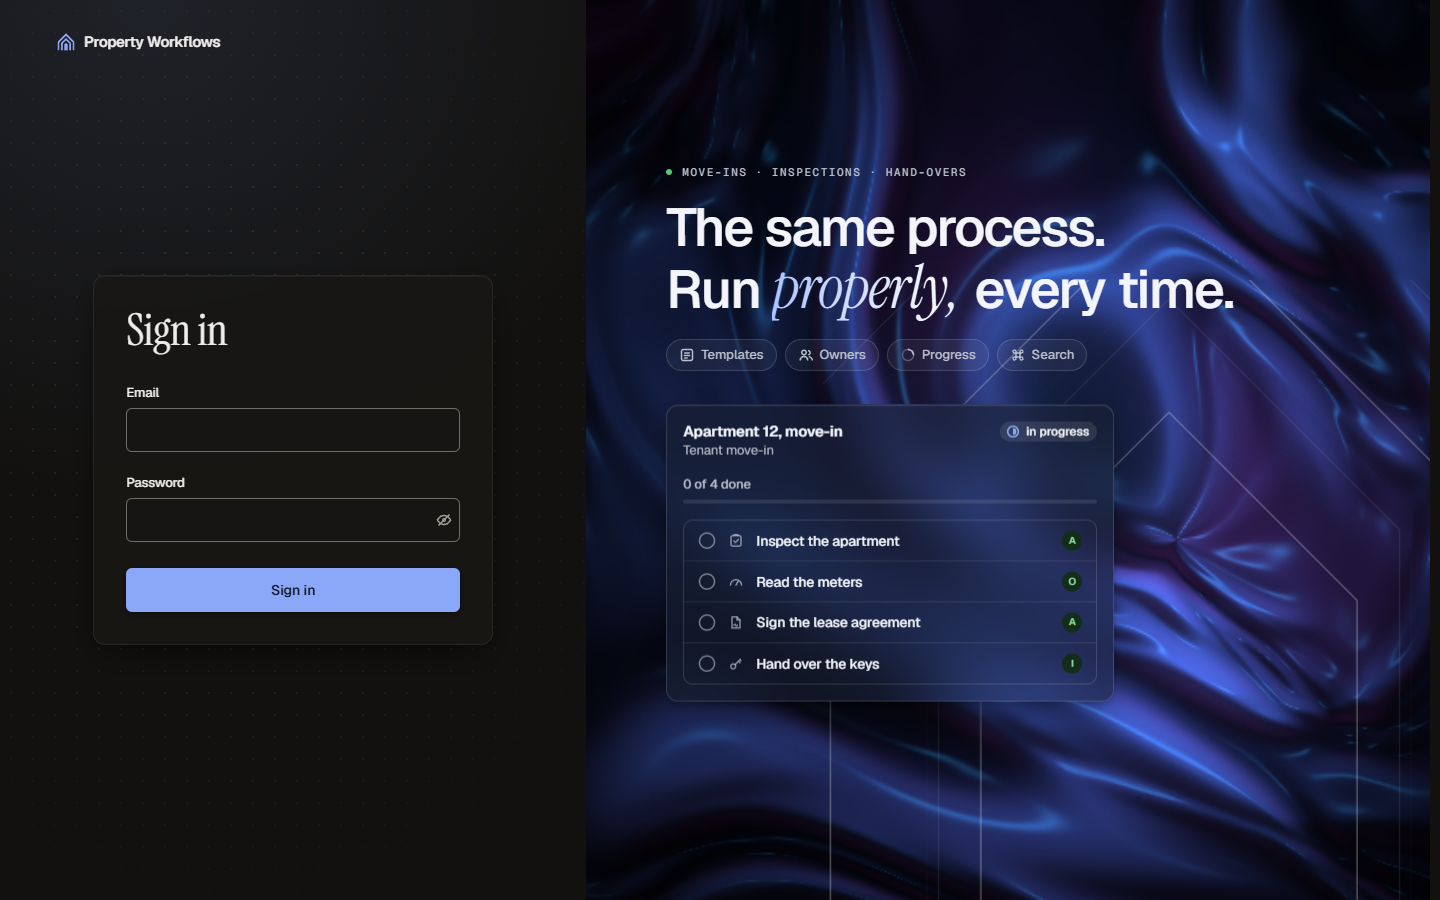
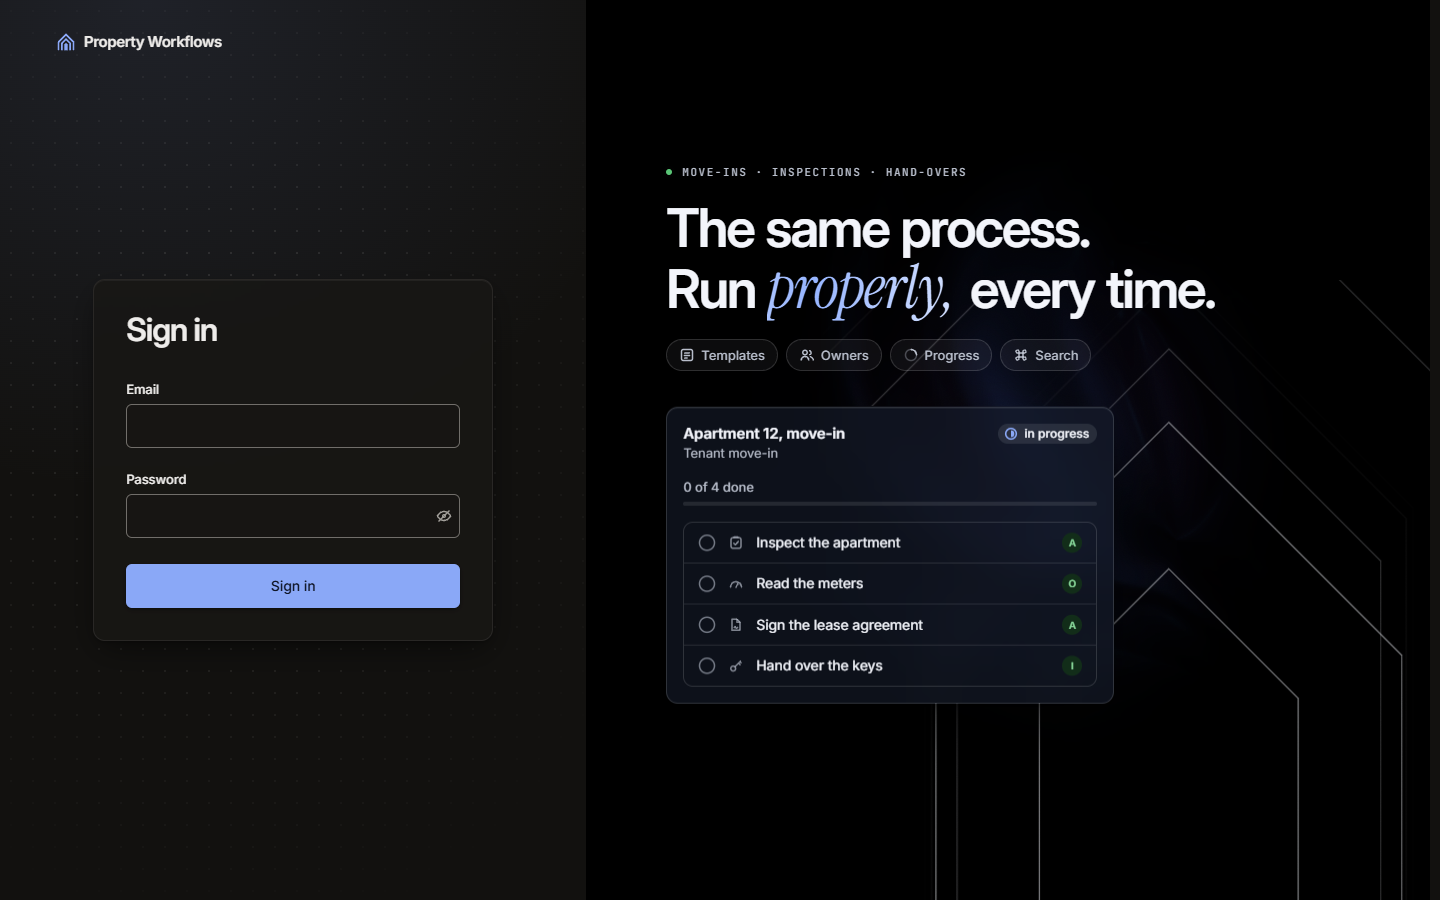
Реалізація: шрифти Inter + JetBrains Mono замість Geist, знімки «до» сторінок
- Inter (змінний, optical size) для тексту й заголовків, JetBrains Mono для моно, Instrument Serif Italic лише для акценту hero
- заголовок «Sign in» — Inter 32/36, 600; ваги тексту 400/420, підписів 500
- DESIGN.md і ADR 0004 оновлено; знімки «до» /, /runs, /templates, сторінки запуску і форми запуску у docs/img

diff --git a/src/app/globals.css b/src/app/globals.css
@@ -154,7 +154,7 @@
 
 
   /* Компенсація ваги тексту: на темному тлі трохи важчий */
-  --weight-body: 430;
+  --weight-body: 400;
 }
 
 /* --------------------------------------------------------------------------
@@ -230,7 +230,7 @@
     --chart-5: oklch(0.62 0.03 80);
 
 
-    --weight-body: 470;
+    --weight-body: 420;
   }
 }
 
@@ -366,8 +366,8 @@
    6. Tailwind: імена токенів → утиліти
    -------------------------------------------------------------------------- */
 @theme inline {
-  --font-sans: var(--font-geist-sans), ui-sans-serif, system-ui, -apple-system, "Segoe UI", sans-serif;
-  --font-mono: var(--font-geist-mono), ui-monospace, "SF Mono", "Cascadia Mono", Consolas, monospace;
+  --font-sans: var(--font-inter), ui-sans-serif, system-ui, -apple-system, "Segoe UI", sans-serif;
+  --font-mono: var(--font-jetbrains-mono), ui-monospace, "SF Mono", "Cascadia Mono", Consolas, monospace;
   --font-display: var(--font-instrument-serif), ui-serif, "Iowan Old Style", Georgia, serif;
 
   --color-accent-float: var(--accent-float);
@@ -482,8 +482,8 @@
   --text-display--font-weight: 600;
   --text-hero: clamp(2.25rem, 3.7vw, 3.75rem);
   --text-hero--line-height: 1.04;
-  --text-hero--letter-spacing: -0.032em;
-  --text-hero--font-weight: 540;
+  --text-hero--letter-spacing: -0.038em;
+  --text-hero--font-weight: 600;
   --text-eyebrow: 0.6875rem;
   --text-eyebrow--line-height: 1rem;
   --text-eyebrow--letter-spacing: 0.14em;
@@ -501,7 +501,7 @@
   --text-body--letter-spacing: -0.006em;
   --text-label: 0.8125rem;
   --text-label--line-height: 1.125rem;
-  --text-label--font-weight: 520;
+  --text-label--font-weight: 500;
   --text-meta: 0.75rem;
   --text-meta--line-height: 1rem;
   --text-meta--letter-spacing: 0.004em;

diff --git a/src/app/layout.tsx b/src/app/layout.tsx
@@ -1,18 +1,20 @@
 import type { Metadata } from "next";
-import { Geist, Geist_Mono, Instrument_Serif } from "next/font/google";
+import { Inter, Instrument_Serif, JetBrains_Mono } from "next/font/google";
 import "./globals.css";
 
-const geistSans = Geist({
-  variable: "--font-geist-sans",
+// Inter з віссю optical size: на великих розмірах дає «display»-форми (щільніші), на 14 px — текстові. Один шрифт на весь інтерфейс.
+const inter = Inter({
+  variable: "--font-inter",
+  subsets: ["latin"],
+  axes: ["opsz"],
+});
+
+const jetbrainsMono = JetBrains_Mono({
+  variable: "--font-jetbrains-mono",
   subsets: ["latin"],
 });
 
-const geistMono = Geist_Mono({
-  variable: "--font-geist-mono",
-  subsets: ["latin"],
-});
-
-// Виразний акцент (лише hero входу): курсивний серіф поруч із Geist. Латиниця; в інтерфейсі лише англійські слова.
+// Виразний акцент (лише hero входу): курсивний серіф поруч з Inter. Латиниця; в інтерфейсі лише англійські слова.
 const instrumentSerif = Instrument_Serif({
   variable: "--font-instrument-serif",
   subsets: ["latin"],
@@ -29,7 +31,7 @@ export default function RootLayout({ children }: LayoutProps<"/">) {
   return (
     <html
       lang="en"
-      className={`${geistSans.variable} ${geistMono.variable} ${instrumentSerif.variable} h-full antialiased`}
+      className={`${inter.variable} ${jetbrainsMono.variable} ${instrumentSerif.variable} h-full antialiased`}
     >
       <body className="min-h-full flex flex-col">{children}</body>
     </html>

diff --git a/src/app/login/page.tsx b/src/app/login/page.tsx
@@ -41,7 +41,7 @@ export default async function LoginPage({ searchParams }: PageProps<"/login">) {
             style={{ "--reveal-delay": "120ms" } as CSSProperties}
             className="animate-ui-reveal flex flex-col gap-8 rounded-xl border border-border bg-card/85 p-8 shadow-md backdrop-blur-sm"
           >
-            <h1 className="font-display text-[2.75rem] font-normal leading-none tracking-[-0.01em]">Sign in</h1>
+            <h1 className="text-[2rem] font-semibold leading-9 tracking-[-0.03em]">Sign in</h1>
             <LoginForm action={login} serverError={message} />
           </div>
         </div>

diff --git a/docs/decisions/0004-design-system-own-components-on-tokens.md b/docs/decisions/0004-design-system-own-components-on-tokens.md
@@ -12,11 +12,13 @@
 
 ## Рішення
 
+- **Шрифти:** Inter (змінний, вісь optical size) для тексту й заголовків, JetBrains Mono для моно; через `next/font/google`, без npm-пакетів. Geist відхилено після перегляду 8 стеків на реальних екранах: Inter читається чіткіше в щільних таблицях (tabular-цифри) і на Windows.
+
 - **Токени** в `src/app/globals.css`: OKLCH, світла тема в `:root`, темна в `@media (prefers-color-scheme: dark)`, `@theme inline` з `--color-*`. Імена shadcn/ui плюс статуси домену (`status-*`: тло, текст, іконка), `ai*`, `variable*` для майбутнього конструктора, `stage*` для сцени входу, стани (`state-hover/pressed/selected`) як альфа-шар.
 - **Компоненти власні** в `src/components/ui/` на цих токенах, без shadcn CLI і без нових залежностей: Button, Input/Textarea/PasswordInput, Select (власний listbox), Combobox, MultiSelect, DatePicker, DateRangePicker, TimeField (київський час), NumberField, CurrencyField, Checkbox, RadioGroup, Switch, Segmented, Slider, FileDrop, Popover, Label, Field, Card, Table, Badge, StatusBadge, Alert, Progress, Avatar, EmptyState, Dialog/ConfirmDialog, TaskCheck/CompletionGlow (оживлення завершення), Skeleton, AppShell із ⌘K, Logo. Діалоги — нативний `<dialog>`: фокус-пастка, Esc і inert-фон дає браузер.
 - **Підтвердження незворотної дії** (AC-TASK-04, 16) — `ConfirmDialog`; `withConfirmation` з `src/lib/runs/confirmation.ts` не змінено, тож тести правила лишились дослівними.
 - **Правило в CI:** `scripts/check-design-tokens.mjs`, `scripts/check-contrast.mjs` і `scripts/check-ui-copy.mjs` (жодних пояснювальних підзаголовків і копірайтів в інтерфейсі; хук Claude Code в `.claude/settings.json` запускає її після кожної правки `src/**/*.tsx`) у `.github/workflows/architecture.yml`. Контраст пар токенів у `DESIGN.md` генерує скрипт, а не рука.
-- **Вхід** — єдиний екран із рухом і єдине місце з другим шрифтом (Instrument Serif через `next/font/google`, без npm-пакета; акцентне слово hero й заголовок «Sign in»): WebGL-шейдер без залежностей (DPR ≤ 1.5 ×0.55, ≤ 30 кадрів/с, пауза поза екраном і за кнопкою «Pause animation», запасний CSS-фон, статичний кадр за `prefers-reduced-motion`), кольори шейдера читаються з токенів `--stage*`.
+- **Вхід** — єдиний екран із рухом і єдине місце з другим шрифтом (Instrument Serif Italic через `next/font/google`, без npm-пакета; лише акцентне слово hero): WebGL-шейдер без залежностей (DPR ≤ 1.5 ×0.55, ≤ 30 кадрів/с, пауза поза екраном і за кнопкою «Pause animation», запасний CSS-фон, статичний кадр за `prefers-reduced-motion`), кольори шейдера читаються з токенів `--stage*`.
 
 ## Розглянуті варіанти
 

diff --git a/DESIGN.md b/DESIGN.md
@@ -85,19 +85,19 @@
 
 ## 3. Типографіка
 
-Шрифт Geist (`--font-sans`) і Geist Mono (`--font-mono`) через `next/font`; єдиний виразний акцент — Instrument Serif (`--font-display`; лише екран входу: акцентне слово hero й заголовок «Sign in», латиниця; завантажується з Google Fonts під час збірки, npm-пакета немає); мова інтерфейсу — англійська, терміни як у глосарії PM (Templates, Runs, run manager, «N of M done»). Вага тексту 430 (Geist ліпиться тонким на Windows), у темній темі 470 (компенсація світіння); підписи й кнопки 520. Числа — завжди `tabular`.
+Шрифт Inter (`--font-sans`, змінний, з віссю optical size: великі заголовки автоматично отримують щільніші «display»-форми) і JetBrains Mono (`--font-mono`) через `next/font`; єдиний виразний акцент — Instrument Serif Italic (`--font-display`; лише акцентне слово hero входу, латиниця; завантажується з Google Fonts під час збірки, npm-пакета немає); мова інтерфейсу — англійська, терміни як у глосарії PM (Templates, Runs, run manager, «N of M done»). Вага тексту 400, у темній темі 420 (компенсація світіння); підписи й кнопки 500, заголовки 600. Числа — завжди `tabular`.
 
 | Роль | Клас | Розмір / висота рядка | Де |
 |---|---|---|---|
 | Великі числа | `text-display` | 28 / 32, 600 | лічильники на головній |
+| Заголовок входу | `text-[2rem] font-semibold tracking-[-0.03em]` | 32 / 36, 600 | лише `h1` «Sign in» |
 | Заголовок сторінки | `text-title` | 20 / 28, 600 | `h1` у `PageShell`, заголовок діалогу |
 | Заголовок розділу | `text-heading` | 15 / 20, 600 | секція чекліста, картка, назва шаблону |
 | Основний текст | `text-body` | 14 / 20 | комірки таблиці, опис, поля вводу |
 | Підпис, кнопка | `text-label` | 13 / 18, 500 | `Label`, `Button`, навігація |
 | Допоміжний | `text-meta` | 12 / 16 | помилка поля, підказка, лічильник секції |
-| Заголовок hero входу | `text-hero` | clamp 36–60 px / 1.04, 540, трекінг −0.032em | hero входу, одна фраза |
+| Заголовок hero входу | `text-hero` | clamp 36–60 px / 1.04, 600, трекінг −0.038em | hero входу, одна фраза |
 | Акцент hero | `font-display italic` | Instrument Serif Italic, 1.14em | одне слово акценту в hero |
-| Заголовок входу | `font-display text-[2.75rem] font-normal` | Instrument Serif, 44 / 44, трекінг −0.01em | лише `h1` «Sign in»; у робочих екранах серіфа немає |
 | Eyebrow | `font-mono text-eyebrow uppercase` | 11 / 16, трекінг 0.14em | рядок-ярлик над заголовком hero |
 
 ## 4. Відступи й радіуси
